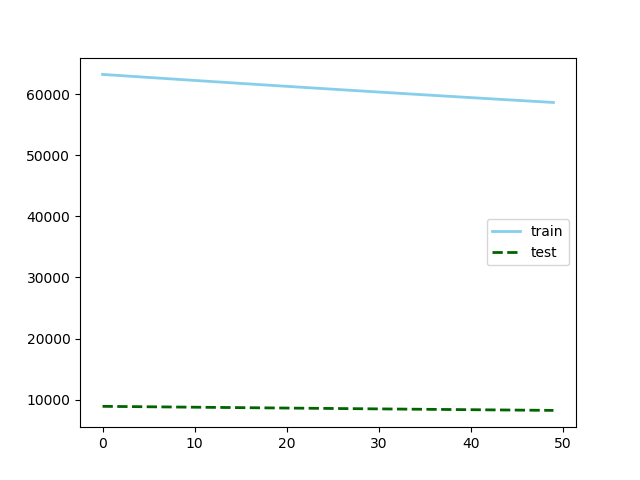
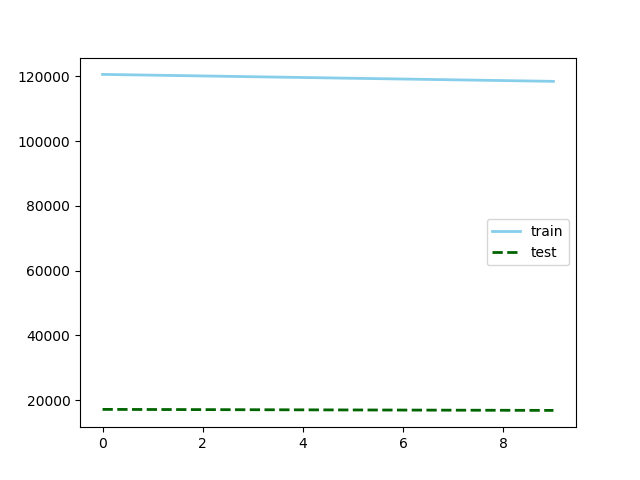
debugging

diff --git a/src/auto_model_training.py b/src/auto_model_training.py
@@ -24,8 +24,8 @@ if __name__ == "__main__":
     out_size = 1
 
     learning_param_map = [
-        {'rule': 'Euler', 'no_step': 10, 'learning_rate': 0.001},
-        {'rule': 'Implicit Euler', 'no_step': 10, 'learning_rate': 0.001},
+        {'rule': 'Euler', 'no_step': 2, 'learning_rate': 0.001},
+        {'rule': 'Implicit Euler', 'no_step': 2, 'learning_rate': 0.001},
         {'rule': 'Trapezoid', 'no_step': 10, 'learning_rate': 0.001},
         {'rule': 'Simpsons', 'no_step':10, 'learning_rate': 0.001},
         {'rule': 'Gaussian_Q', 'no_step': 10, 'learning_rate': 0.001}
@@ -42,7 +42,7 @@ if __name__ == "__main__":
 
     in_size = 5
     out_size = 1
-    no_epochs = 50
+    no_epochs = 10
     evaluation_df = pd.DataFrame(columns=['model_name', 'rule', 'no_step', 'learning_rate', 'loss_on_train', 'loss_on_test'])
 
     for model_definition in models_to_evaluate:
@@ -52,17 +52,17 @@ if __name__ == "__main__":
                       no_steps=params['no_step'], method=params['rule'], log_epoch=10)
 
             model_name = f"autoput-01012017-{type(model).__name__}-{params['rule']}"
-
-            train_losses, test_losses = [loss.detach().numpy()[0, 0] for loss in train_losses], \
-                                        [loss.detach().numpy()[0, 0] for loss in test_losses]
-            plt.plot(epochs, train_losses, color='skyblue', linewidth=2, label='train')
-            plt.plot(epochs, test_losses, color='darkgreen', linewidth=2, linestyle='dashed', label="test")
+            p_train_losses = [loss.detach().numpy()[0] for loss in train_losses]
+            p_test_losses = [loss.detach().numpy()[0, 0] for loss in test_losses]
+            print(p_train_losses, p_test_losses)
+            plt.plot(epochs, p_train_losses, color='skyblue', linewidth=2, label='train')
+            plt.plot(epochs, p_test_losses, color='darkgreen', linewidth=2, linestyle='dashed', label="test")
             plt.legend()
             plt.savefig(f'img/{model_name}.png')
 
             loss_on_train = model.evaluate(train_time, in_size, method='Trapezoid')
             loss_on_test = model.evaluate(test_time, in_size, method='Trapezoid')
-            print(f"Model: {type(model).__name__}. Loss on train: {str(loss_on_train.data.numpy())},  "
+            print(f"Model: {model_name}. Loss on train: {str(loss_on_train.data.numpy())},  "
                   f"loss on test: {str(loss_on_test.data.numpy())}")
             evaluation_df.loc[len(evaluation_df)] = [type(model).__name__,
                                                      params['rule'],
@@ -75,7 +75,3 @@ if __name__ == "__main__":
 
     print(evaluation_df)
     evaluation_df.to_csv('results/jan_autoput_scores_0.1.csv', index=False)
-
-
-
-
